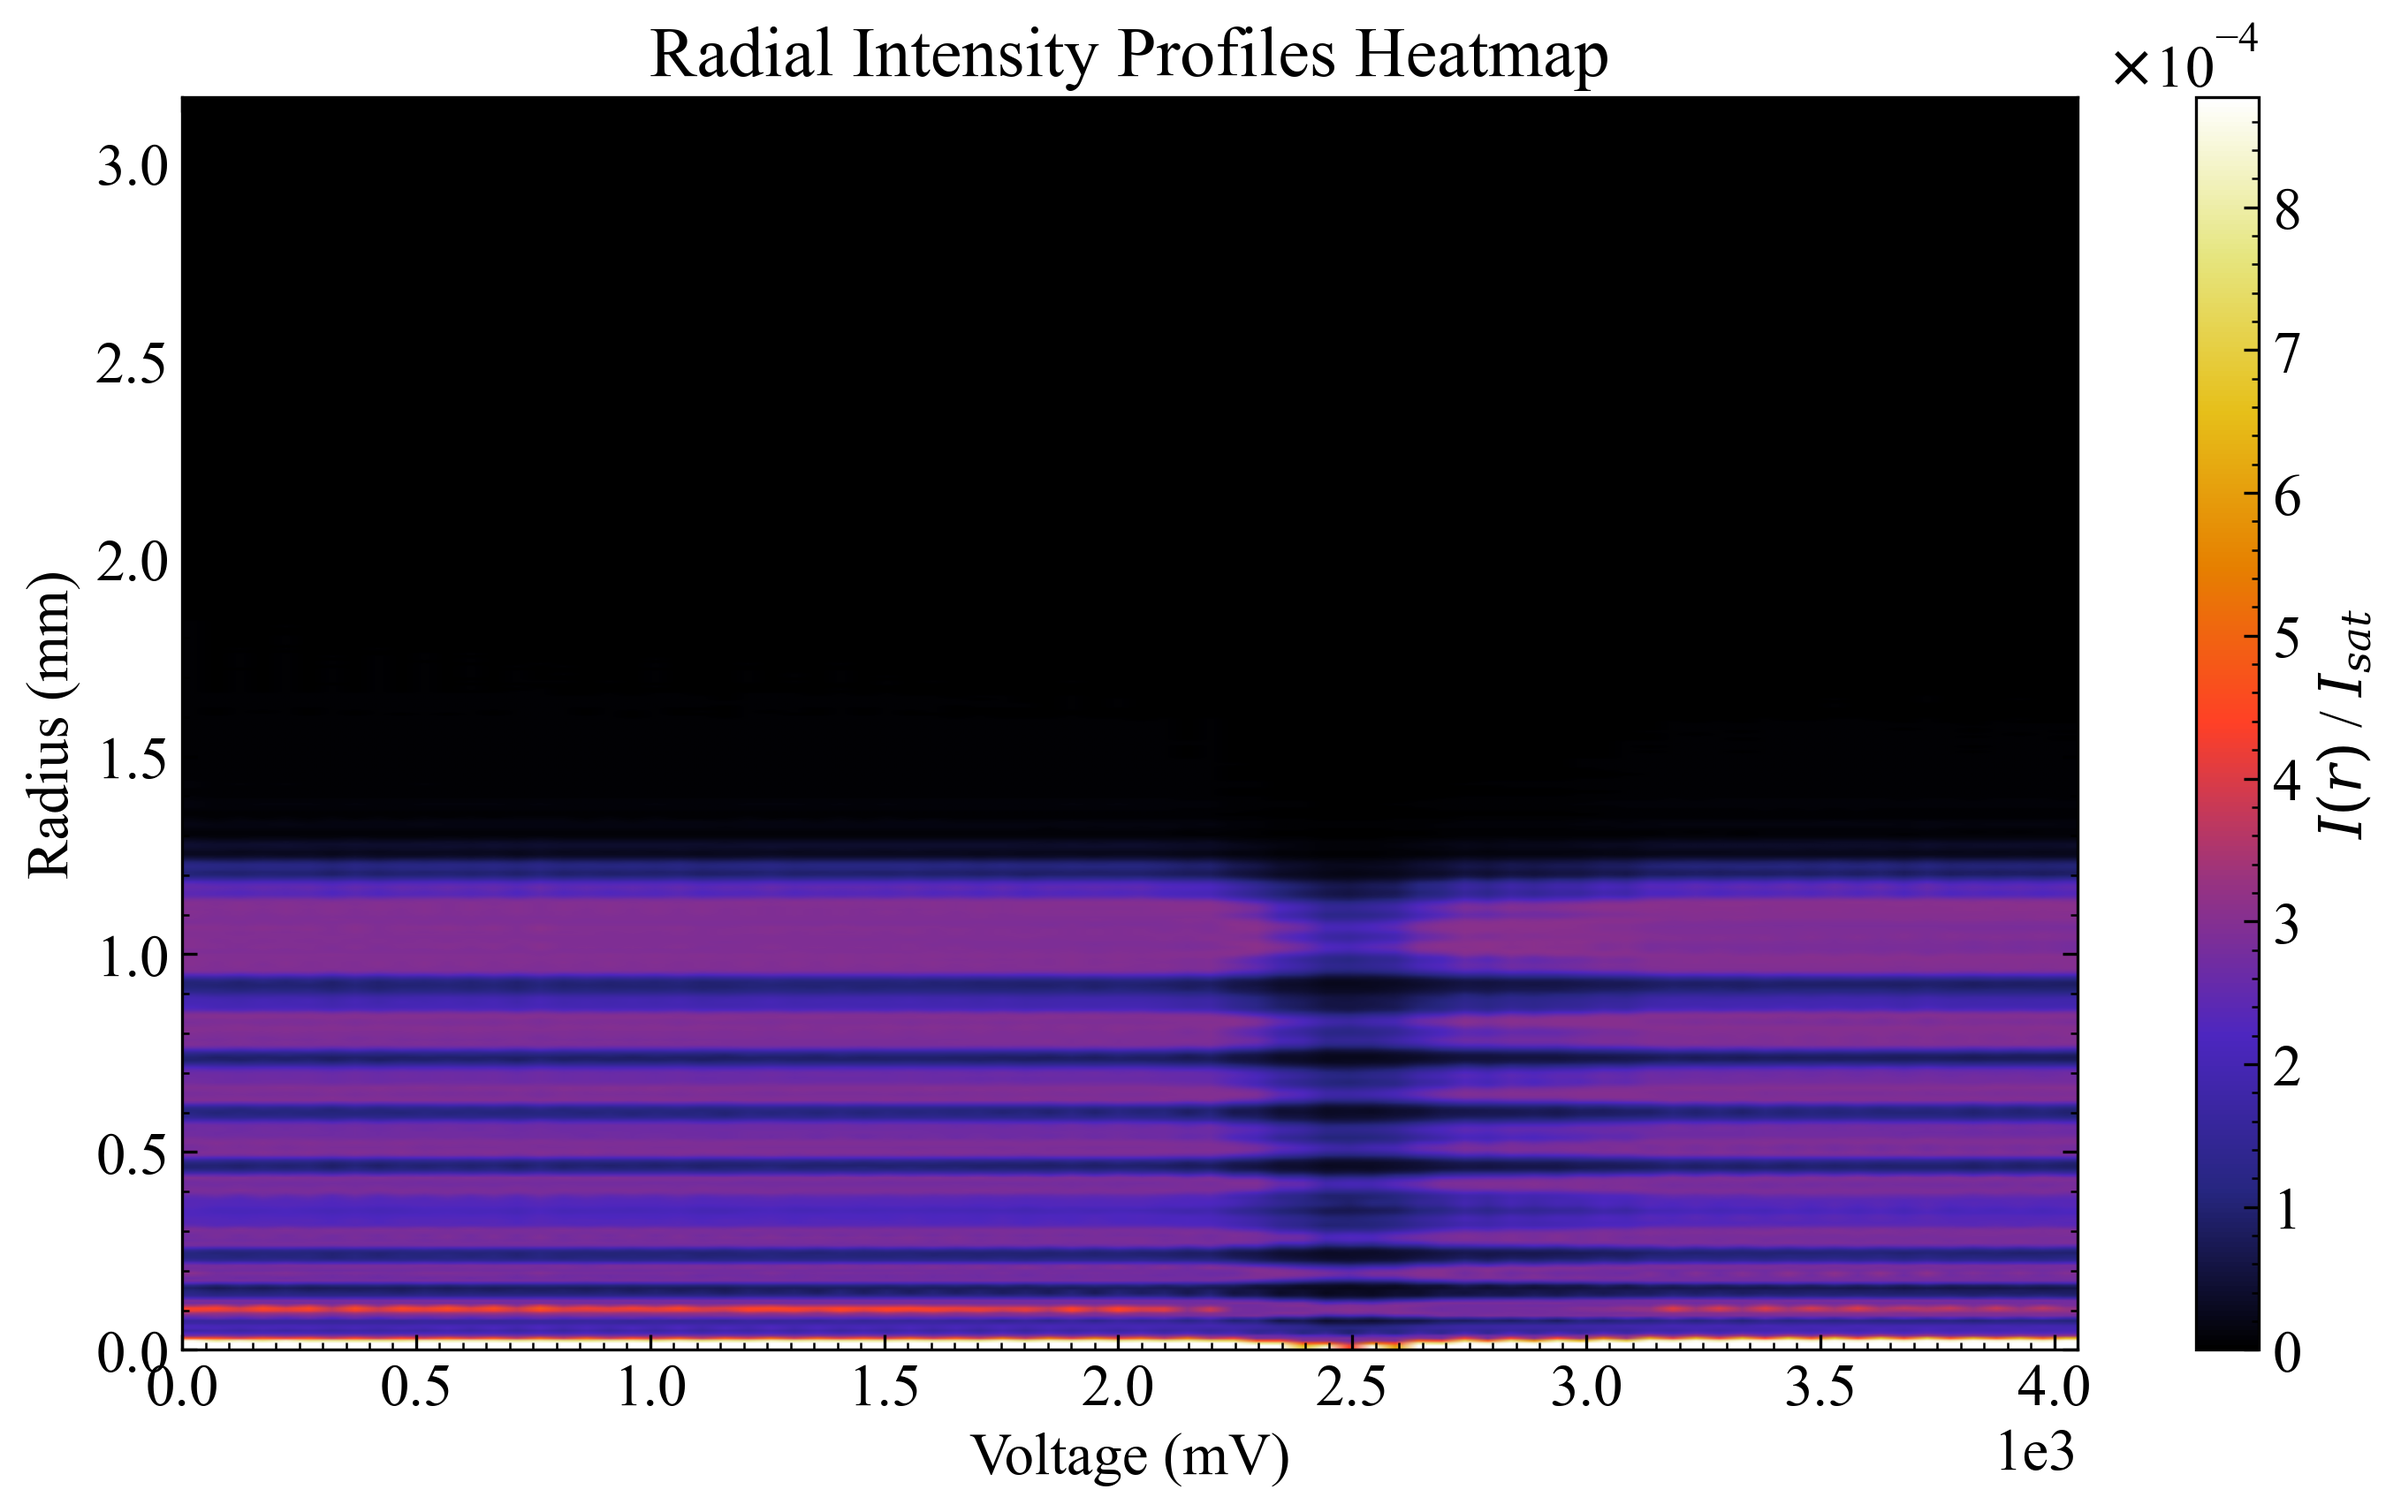
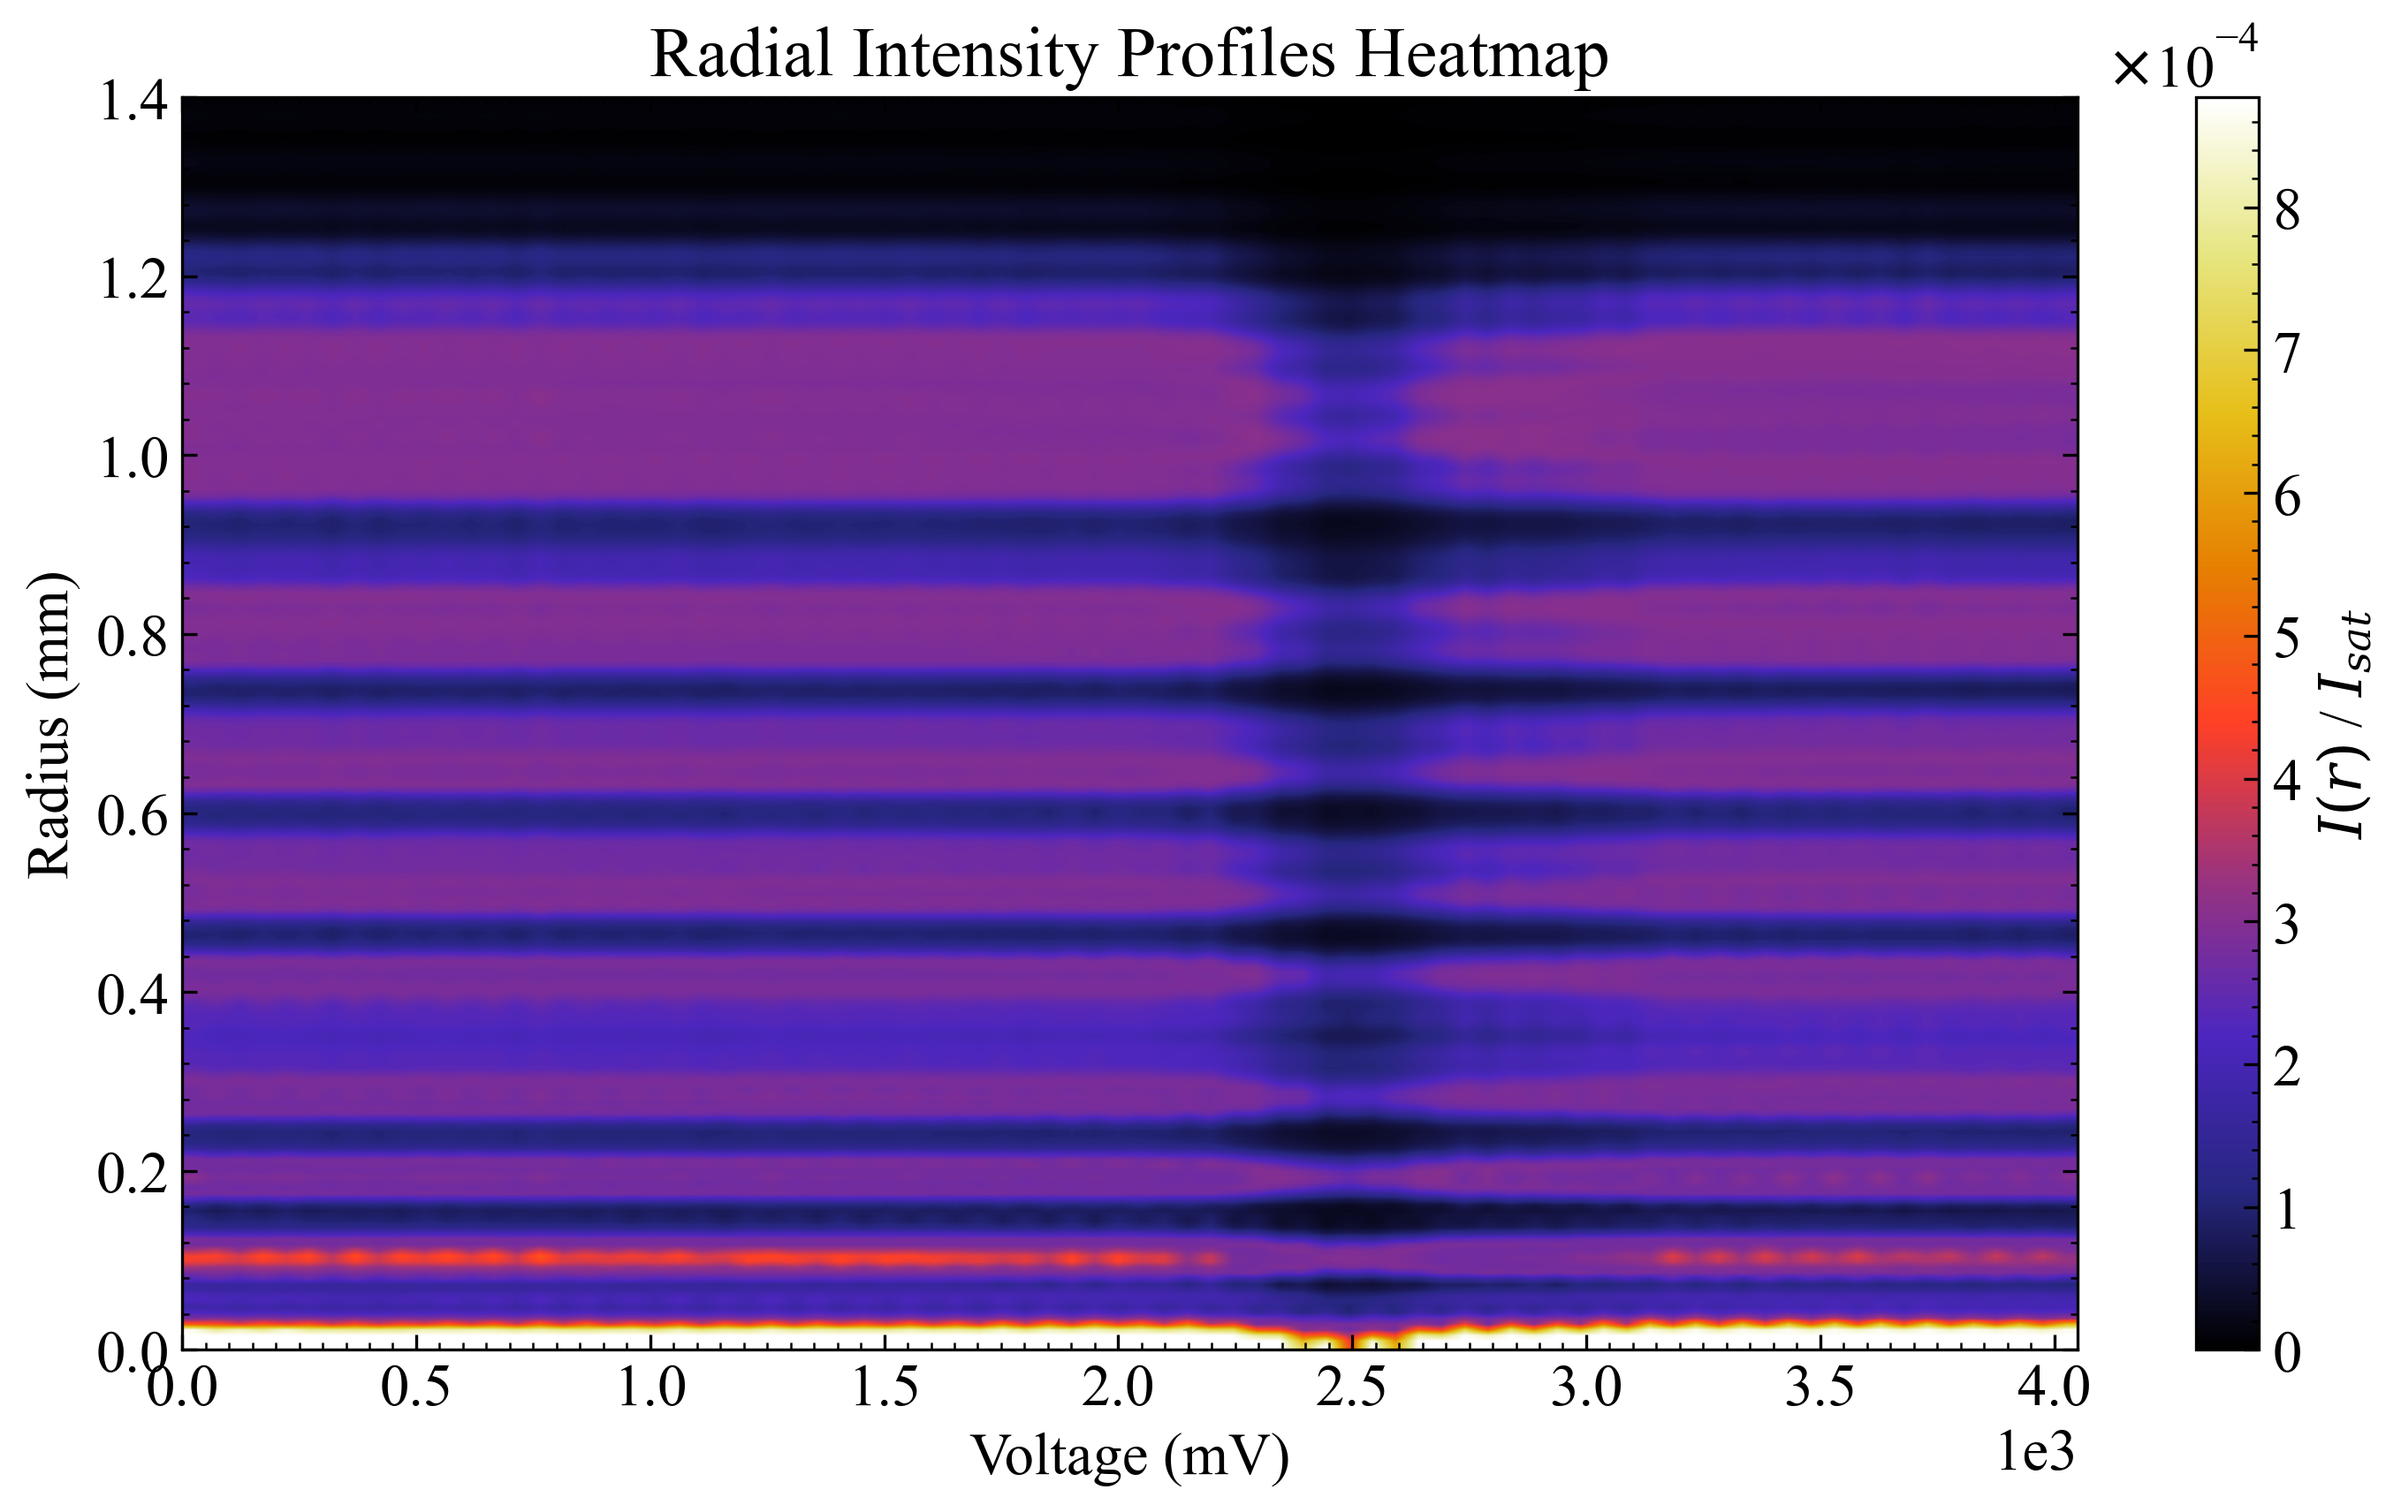
55

diff --git a/imageIntegration.py b/imageIntegration.py
@@ -83,7 +83,7 @@ rcParams['mathtext.fontset'] = 'dejavuserif' # or 'cm', 'stix', 'custom'
 focus_distance = None # Only show a certain distance
 plot_main = False
 save_all_plots = True
-save_all_plots = False
+#save_all_plots = False
 
 pixel_size = 3.45e-6 #m
 pixel_area = pixel_size**2 #3.45 x 3.45 micrometers squared
@@ -635,6 +635,8 @@ if focus_distance is None:
 
 	plt.ticklabel_format(style='sci', axis='both', scilimits=(-3, 3))
 
+	if mode == 2:
+		plt.ylim([0,1.4])
 
 	if save_all_plots:
 		if mode == 0:
@@ -643,9 +645,6 @@ if focus_distance is None:
 			plt.savefig("I_r_heatmap_new.png", dpi=300, bbox_inches='tight')
 		else:
 			plt.savefig("I_r_heatmap_new_spec.png", dpi=300, bbox_inches='tight')
-
-	if mode == 2:
-		plt.ylim([0,1.4])
 
 	plt.show()
 
